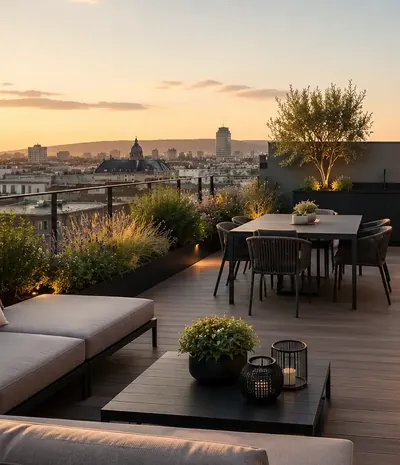
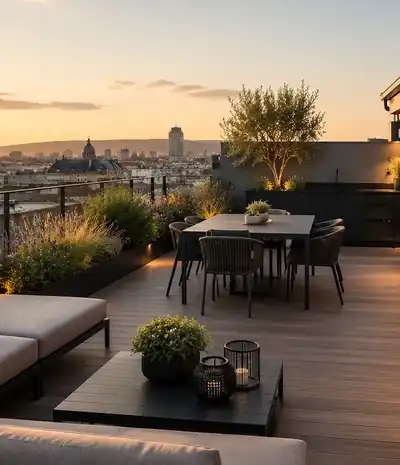
Toit-terrasse : en-tête ambiance-toit-terrasse (IA), retirée de la galerie
Claude-Session: https://claude.ai/code/session_01CfAVzKJ9K36XfF7G9UPZuf

diff --git a/CLAUDE.md b/CLAUDE.md
@@ -107,3 +107,4 @@ Remplaçant du site WordPress/Elementor instantterrasse.com. Générateur Node s
 - Pages pergola (bioclimatique, toile, toit fixe), section avant la FAQ : « points clés » à pictogrammes (fonction pointsCles, PC_AUTORISATION, PC_RDV) à la place des paragraphes (16/11/2026).
 - Galeries (17/11/2026, Antoine) : sur ordinateur, le script remplir (SCRIPT_GALERIE) complète la dernière rangée avec les photos « Voir plus » ou la réserve `complement` (option de galerie(), galerieComp dans pageProjet : balcon, pilotis, plots, camping), puis l'étire si elle est remplie à 75 % ou plus ; sinon la centre (pas de trou à droite). Rien sur téléphone (carrousels).
 - Photo pilotis-garde-corps-verre-salon (en-tête pilotis + vignette « autres projets ») : image générée par IA (Antoine, 17/11/2026). Gardée en en-tête (scène générique, pas un deepfake au sens de l'AI Act art. 50, pas de pénalité Google), mais jamais dans une galerie « en situation ».
+- Photo ambiance-toit-terrasse : image IA (Antoine, 17/11/2026), en-tête du toit-terrasse (remplace carrelage-toit-terrasse-montagnes) et vignette ; retirée de la galerie, jamais dans une galerie « en situation ».
